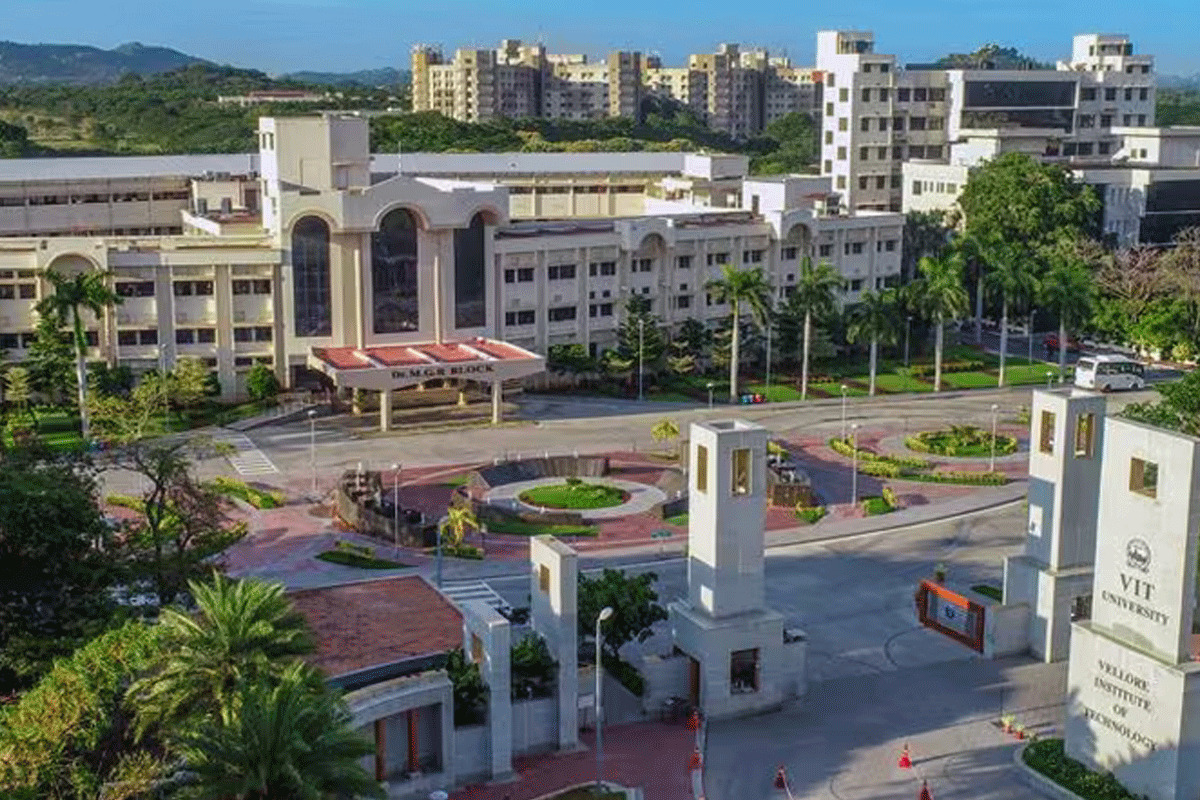
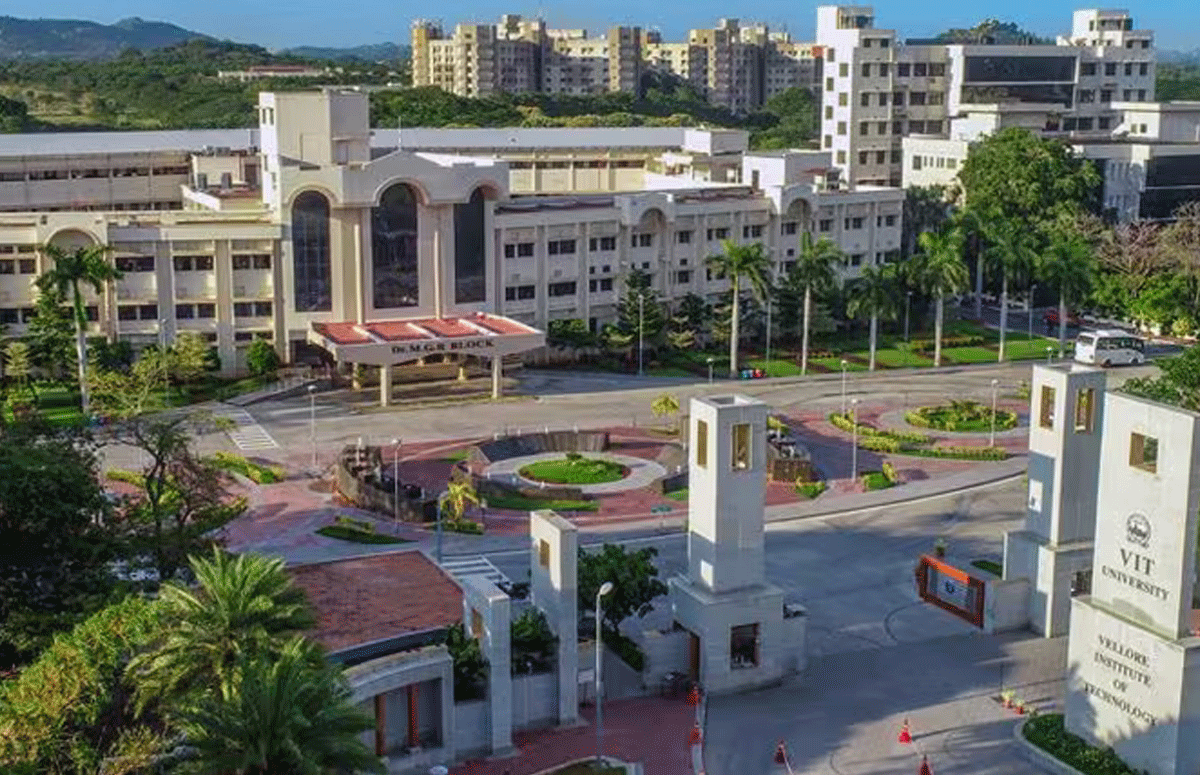
added image

diff --git a/index.html b/index.html
@@ -153,11 +153,11 @@
                   I'm Akshwin T, a Final year of Computer Science Student, passionate about Artificial Intelligence, Machine Learning, Deep Learning. With a strong foundation in Machine Learning, Deep Learning, Convolutional Neural Networks, and Transfer Learning, I am deeply engaged in exploring cutting-edge advancements like agentic AI and generative models. My expertise spans Deep Learning, Computer Vision, Natural Language Processing, and Cloud-based AI solutions, reflecting my commitment to pushing the boundaries of AI innovation.
                 </p>
                 <p class="lead">
-                  Certified by AWS, I am actively involved in AI research, particularly focused on impactful domains like medical imaging and space exploration. Through my projects and research, I aim to leverage AI for solving real-world challenges and advancing scientific discovery. I am passionate about bridging the gap between theoretical advancements and practical applications, continuously striving to make meaningful contributions to the AI research community.
+                  As an AWS-certified professional, I am deeply engaged in cutting-edge AI research with a strong focus on transformative fields such as medical imaging and space exploration. My work is driven by a commitment to harnessing the power of artificial intelligence to address real-world challenges and accelerate scientific progress. By bridging the gap between theoretical advancements and practical implementations, I strive to contribute meaningfully to the evolving landscape of AI.
                 </p>
                 <p class="lead">
-                  Beyond research, I am dedicated to sharing knowledge and mentoring aspiring AI enthusiasts. I believe in the power of collaboration and open learning to drive the future of technology. Feel free to connect with me on LinkedIn for insights on AI, Machine Learning, and Deep Learning, and Artificial Intelligence.
-                </p>
+                  Beyond my research endeavors, I am passionate about knowledge-sharing and mentoring the next generation of AI enthusiasts. I firmly believe that collaboration and open learning are key to driving innovation and shaping the future of technology. Let's connect on LinkedIn to exchange insights on Artificial Intelligence, Machine Learning, and Deep Learning—and to explore how we can make a positive impact together.
+                </p>                
               </div>
             </div>
           </div>

diff --git a/style/style.css b/style/style.css
@@ -185,7 +185,7 @@ li {
 /* Education Section */
 .education-img-wrapper {
   width: 100%;
-  height: 300px;
+  height: 350px;
   overflow: hidden;
   border-radius: 12px;
 }
